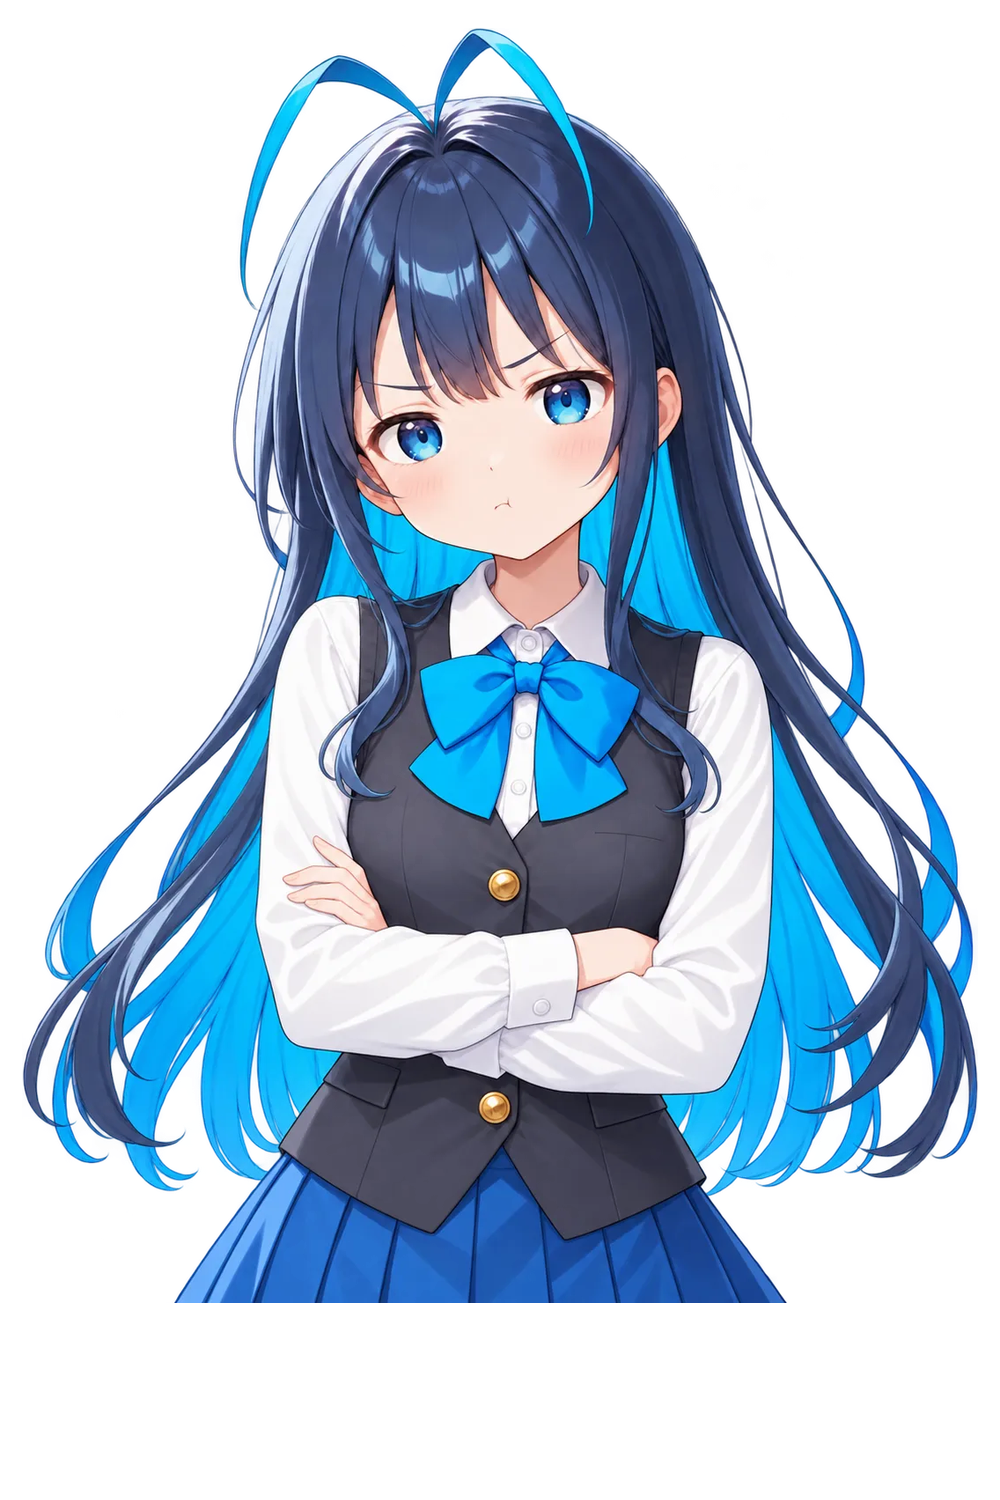
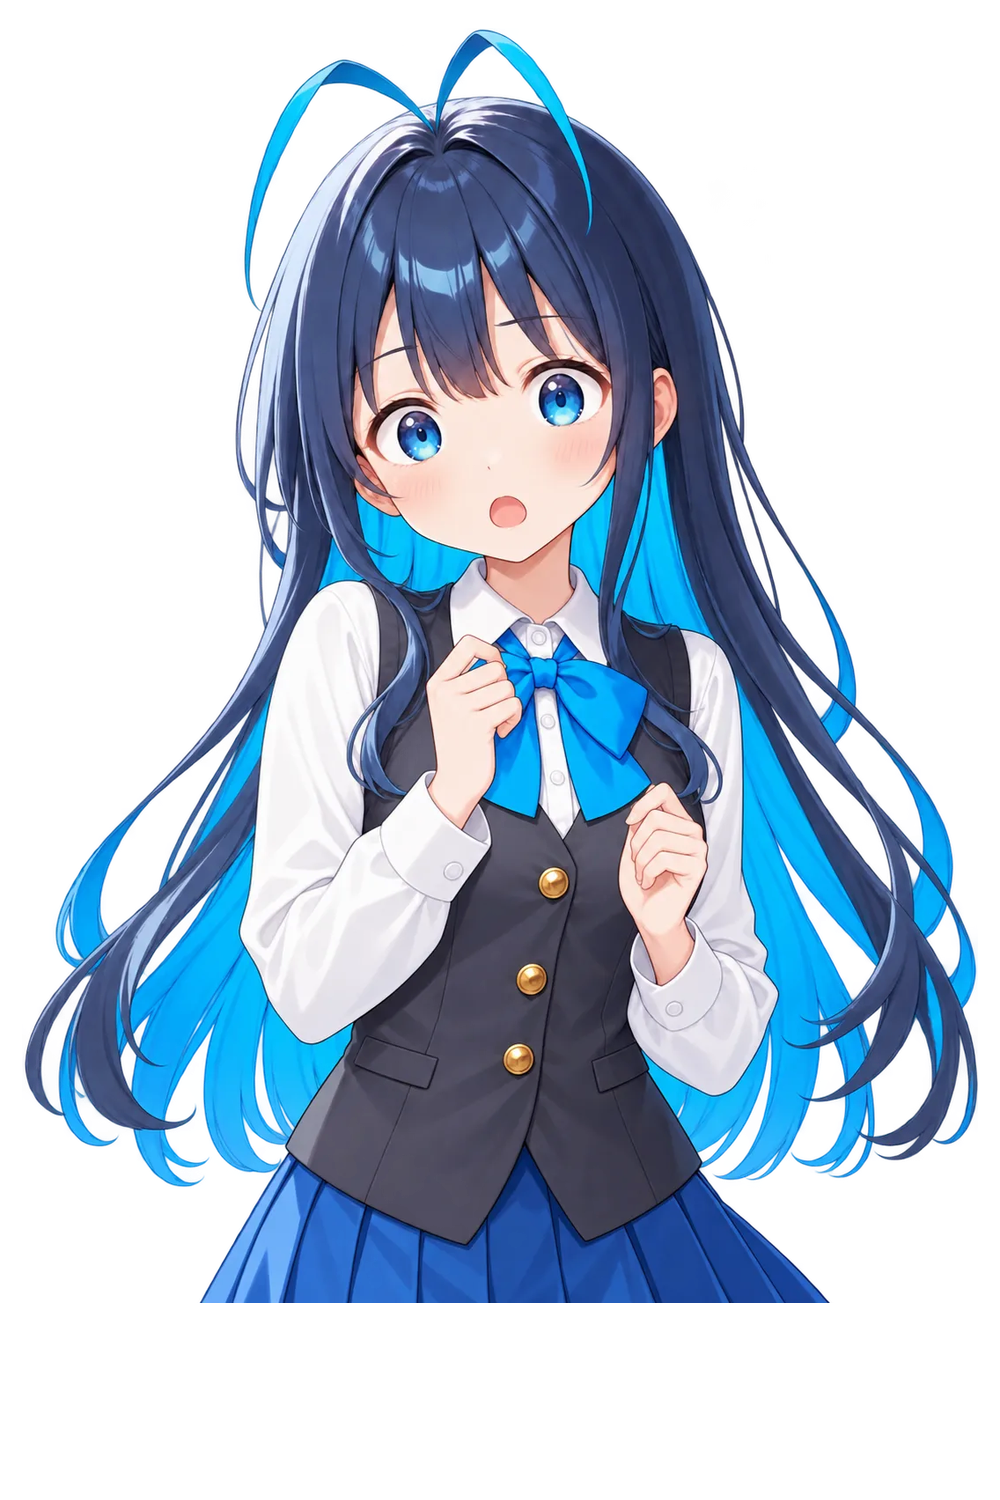
Fix expression grouping, scale, and Ai/Yozora mappings

diff --git a/scenario/v039/recollectionBiribiriExpressionPatch.js b/scenario/v039/recollectionBiribiriExpressionPatch.js
@@ -10,7 +10,7 @@
       placeId: "hidamari_store", placeName: "ひだまりストア",
       characters: ["ba"], characterNames: ["天神 小春"],
       scenario: "scenario/v039/events/koharu_expression_25_test.json",
-      version: "v039_309", unlock: { type: "always" }, order: 9915,
+      version: "v039_320", unlock: { type: "always" }, order: 9915,
       summary: "小春の採用済み正式25表情を、最新画像で順番に確認する開発用シナリオ。",
       rawTitle: "小春の表情テスト：消えた勝負コントローラー",
       locationName: "ひだまりストア", albumTab: "other", encounter: { enabled: false }
@@ -22,7 +22,7 @@
       placeId: "hidamari_store", placeName: "ひだまりストア",
       characters: ["bb"], characterNames: ["霧島 真冬"],
       scenario: "scenario/v039/events/mafuyu_expression_25_test.json",
-      version: "v039_310", unlock: { type: "always" }, order: 9916,
+      version: "v039_320", unlock: { type: "always" }, order: 9916,
       summary: "真冬の採用済み正式25表情を、最新画像で順番に確認する開発用シナリオ。",
       rawTitle: "真冬の表情テスト：消えた売上予測データ",
       locationName: "ひだまりストア", albumTab: "other", encounter: { enabled: false }
@@ -34,7 +34,7 @@
       placeId: "hidamari_store", placeName: "ひだまりストア",
       characters: ["bc"], characterNames: ["日向 夏海"],
       scenario: "scenario/v039/events/natsumi_expression_25_test.json",
-      version: "v039_311", unlock: { type: "always" }, order: 9917,
+      version: "v039_320", unlock: { type: "always" }, order: 9917,
       summary: "夏海の採用済み正式25表情を、最新画像で順番に確認する開発用シナリオ。",
       rawTitle: "夏海の表情テスト：消えた差し入れフルーツ",
       locationName: "ひだまりストア", albumTab: "other", encounter: { enabled: false }

diff --git a/index.html b/index.html
@@ -53,8 +53,8 @@
   <script src="program/v039/rivalBattle.js?v=v039_291"></script>
   <script src="program/v039/eventBattle.js?v=v039_291"></script>
   <script src="scenario/v039/storyIndex.js?v=v039_291"></script>
-  <script src="scenario/v039/recollectionIndex.js?v=v039_292"></script>
-  <script src="scenario/v039/recollectionBiribiriExpressionPatch.js?v=v039_311"></script>
+  <script src="scenario/v039/recollectionIndex.js?v=v039_320"></script>
+  <script src="scenario/v039/recollectionBiribiriExpressionPatch.js?v=v039_320"></script>
   <script src="scenario/v039/recollectionAiExpressionPatch.js?v=v039_312"></script>
   <script src="scenario/v039/recollectionMomoExpressionPatch.js?v=v039_313"></script>
   <script src="scenario/v039/recollectionYozoraCocoaTestPatch.js?v=v039_314"></script>
@@ -73,7 +73,7 @@
   <script src="program/v039/storyDebugTools.js?v=v039_293"></script>
   <script src="program/v039/storyEndOfficeBootFix.js?v=v039_291"></script>
   <script src="program/v039/memberStorySlots.js?v=v039_291"></script>
-  <script src="program/v039/storyMenu.js?v=v039_312"></script>
+  <script src="program/v039/storyMenu.js?v=v039_320"></script>
   <script src="program/v039/storyMenuLvTitlePatch.js?v=v039_291"></script>
   <script src="program/v039/bootSurfaceGuard.js?v=v039_291"></script>
   <script src="program/v039/rightMenuViewportGuard.js?v=v039_291"></script>

diff --git a/scenario/v039/recollectionIndex.js b/scenario/v039/recollectionIndex.js
@@ -362,7 +362,7 @@ window.TENOTSU_RECOLLECTION_STORY_INDEX = [
       "速水川 藍"
     ],
     "scenario": "scenario/v039/events/ai_expression_25_test.json",
-    "version": "v039_299",
+    "version": "v039_320",
     "unlock": {
       "type": "always"
     },
@@ -530,7 +530,7 @@ window.TENOTSU_RECOLLECTION_STORY_INDEX = [
       "双沢 夜空"
     ],
     "scenario": "scenario/v039/events/yozora_expression_25_test.json",
-    "version": "v039_305",
+    "version": "v039_320",
     "unlock": {
       "type": "always"
     },

diff --git a/program/v039/storyMenu.js b/program/v039/storyMenu.js
@@ -83,7 +83,7 @@
 
   function expressionGroup(story){
     const ids = Array.isArray(story && story.characters) ? story.characters : [];
-    if (ids.some((id) => /^a[a-m]$/.test(String(id)))) return "hidamari";
+    if (ids.some((id) => /^a[a-n]$/.test(String(id)))) return "hidamari";
     if (ids.some((id) => /^b[a-c]$/.test(String(id)))) return "biribiri";
     return "other";
   }
